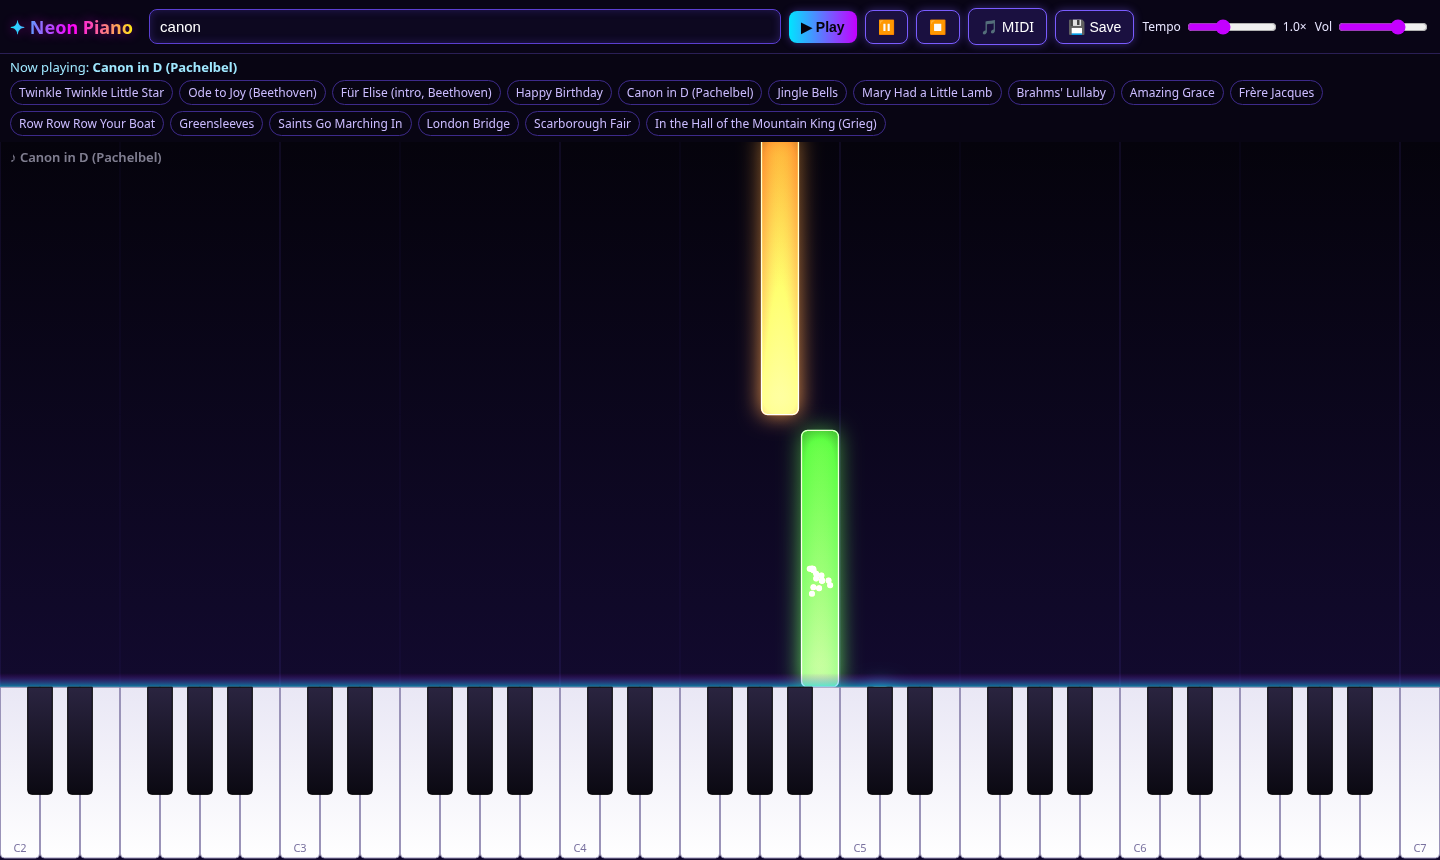
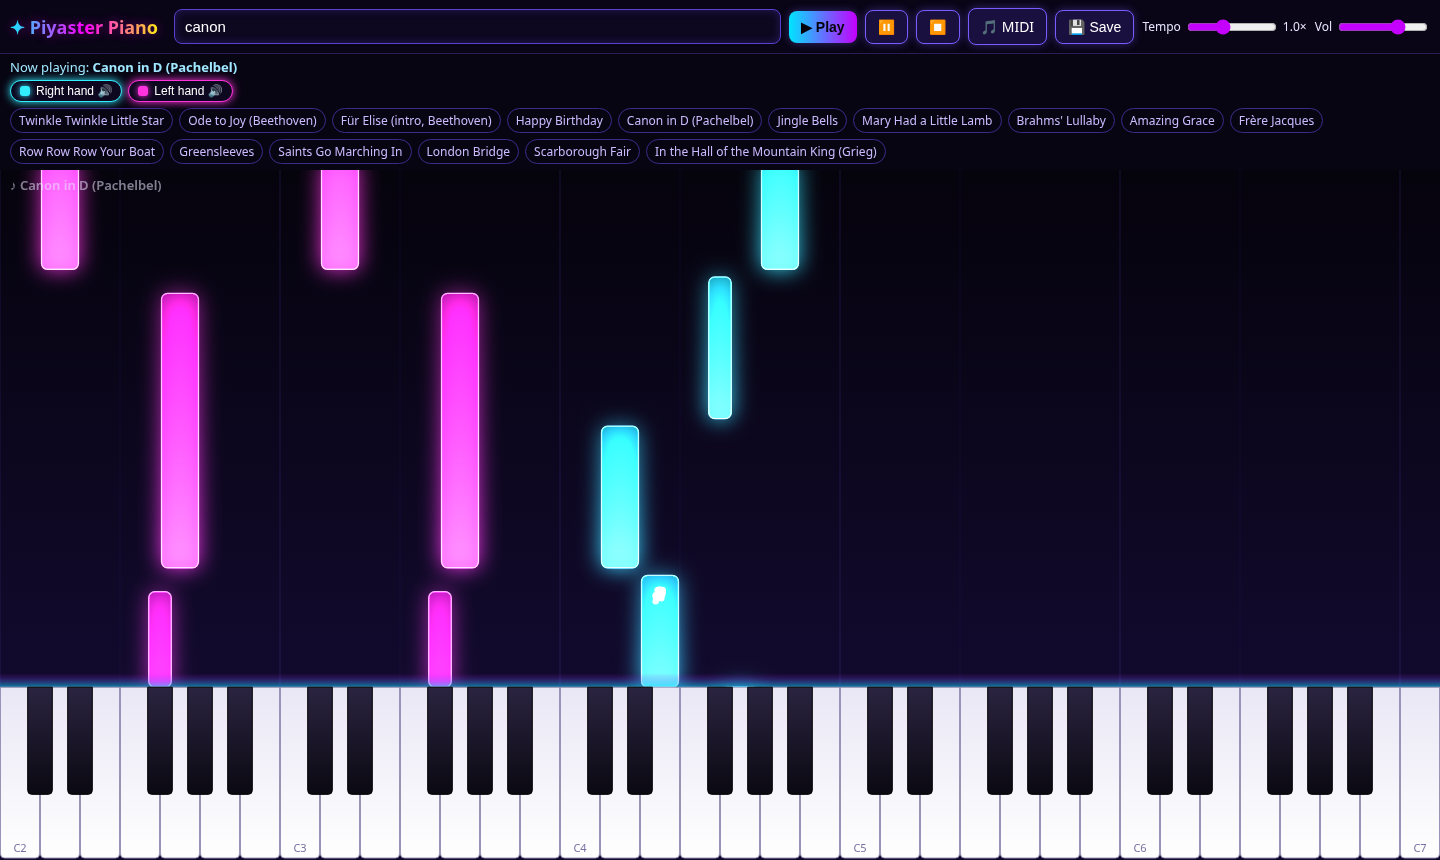
Rename to Piyaster Piano; two-hand playback (LH accompaniment, RH/LH colors, mute toggles), multi-track MIDI, RH:/LH: typed notes, manifest

Changed region(s): [[0.0, 0.0, 0.9062, 0.8163], [0.2812, 0.3326, 0.3438, 0.8163], [0.0938, 0.3326, 0.1562, 0.8163]]

diff --git a/app.js b/app.js
@@ -44,18 +44,42 @@ addEventListener('resize', layout);
 
 // ---------- state ----------
 let song = {name:'',notes:[]}, pos = 0, playing = false, tempo = 1, last = 0, nextIdx = 0;
-const lit = {}; // midi -> {until, hue}
+const lit = {}; const muted={rh:false,lh:false}; const isMuted=n=> (n.h?muted.lh:muted.rh); // midi -> {until, hue}
 let parts = [];
 const LOOK = 2.6; // seconds visible above keys
-function hit(m, dur, vel){ tone(m, dur, vel); lit[m] = {t: performance.now(), until: performance.now()+Math.max(260,dur*1000/tempo), hue: hueFor(m)};
+function hit(m, dur, vel, hue){ hue=hue??hueFor(m); tone(m, dur, vel); lit[m] = {t: performance.now(), until: performance.now()+Math.max(260,dur*1000/tempo), hue};
   const k = keys[m]; if(!k) return; const y = H-kbH;
-  for(let i=0;i<14;i++) parts.push({x:k.x+k.w/2,y,vx:(Math.random()-.5)*3,vy:-Math.random()*4-1,life:1,hue:hueFor(m)}); }
+  for(let i=0;i<14;i++) parts.push({x:k.x+k.w/2,y,vx:(Math.random()-.5)*3,vy:-Math.random()*4-1,life:1,hue}); }
 
 // ---------- parsing ----------
 function parseTokens(str, bpm){ const spb = 60/bpm; let t=0, out=[];
   for (const tok of str.trim().split(/[\s,|]+/)){ if(!tok) continue; let [n,b] = tok.split(':'); b = b?parseFloat(b):1;
     const chord = n.split('+'); if(!/^r(est)?$/i.test(n)){ for(const c of chord){ const m = noteToMidi(c); if(m==null) return null; out.push({m,t,d:b*spb*0.95}); } }
     t += b*spb; } return out.length?out:null; }
+const HUE_RH=185, HUE_LH=310, TRACK_HUES=[185,310,48,130,20,260,90,350,215,160];
+function chordNotes(c){ const r=/^([A-G])([#b]?)(m7|maj7|m|7|dim)?$/.exec(c); if(!r) return null;
+  let root={C:0,D:2,E:4,F:5,G:7,A:9,B:11}[r[1]]+(r[2]=='#'?1:r[2]=='b'?-1:0); root=(root+12)%12;
+  const q=r[3]||'', iv=q.startsWith('m')&&q!=='maj7'?[0,3,7]:q==='dim'?[0,3,6]:[0,4,7]; if(q.endsWith('7')) iv.push(q==='maj7'?11:10);
+  const r2=36+root, r3=48+root; return {r2,r3,tri:iv.map(i=>r3+i)}; }
+function genLH(spec,bpm){ const spb=60/bpm, out=[]; if(spec.lh) return (parseTokens(spec.lh,bpm)||[]).map(n=>({...n,h:1,hue:HUE_LH}));
+  let t=spec.start||0; const B=spec.bar||4;
+  for(const tok of spec.prog.trim().split(/\s+/)){ const [c,b]=tok.split(':'); const L=b?+b:B, ch=chordNotes(c); if(!ch){t+=L;continue;}
+    const ev=[]; const add=(o,d,ns)=>{ if(o<L-1e-6) ns.forEach(m=>ev.push({m,o,d:Math.min(d,L-o)})); };
+    const [a,b3,c5]=ch.tri;
+    switch(spec.style){
+      case 'alb': for(let o=0,i=0;o<L;o+=0.5,i++) add(o,0.5,[[a,c5,b3,c5][i%4]]); add(0,L,[ch.r2]); break;
+      case 'arp': for(let o=0,i=0;o<L;o+=0.5,i++) add(o,0.5,[[ch.r2,ch.r2+7,a,b3,c5,b3][i%6]]); break;
+      case 'waltz': for(let o=0;o<L;o+=3){ add(o,1,[ch.r2]); add(o+1,1,ch.tri); add(o+2,1,ch.tri);} break;
+      case 'oompah': for(let o=0,i=0;o<L;o++,i++) add(o,1,i%2?ch.tri:[ch.r2]); break;
+      case 'march': for(let o=0,i=0;o<L;o+=0.5,i++) add(o,0.5,[i%2?ch.r2+12:ch.r2]); break;
+      case 'bass': add(0,L,[ch.r2,ch.r3]); break;
+      default: add(0,L,[ch.r2,...ch.tri]); }
+    ev.forEach(e=>out.push({m:e.m,t:(t+e.o)*spb,d:e.d*spb*0.92,h:1,hue:HUE_LH,v:0.55})); t+=L; }
+  return out; }
+function builtIn(s){ const rh=parseTokens(s.m,s.bpm).map(n=>({...n,h:0,hue:HUE_RH})); const sp=LH[s.name]; return sp?rh.concat(genLH(sp,s.bpm)):rh; }
+function parseHands(q){ if(!/\b(RH|LH)\s*:/i.test(q)) return null; const out=[]; const parts=q.split(/\b(RH|LH)\s*:/i);
+  for(let i=1;i<parts.length;i+=2){ const lh=parts[i].toUpperCase()==='LH'; const n=parseTokens(parts[i+1],100); if(!n) return null;
+    n.forEach(x=>out.push({...x,h:lh?1:0,hue:lh?HUE_LH:HUE_RH})); } return out.length?out:null; }
 function parseABC(str){ let L=0.5, bpm=120, key=''; const body=[];
   for(const line of str.split(/\n/)){ const h=/^([A-Za-z]):\s*(.*)$/.exec(line.trim());
     if(h){ if(h[1]=='L'){const [a,b]=h[2].split('/');L=(+a/+b)*4;} if(h[1]=='Q'){bpm=parseInt(h[2].split('=').pop())||bpm;} if(h[1]=='K') key=h[2]; }
@@ -79,13 +103,14 @@ function findSong(q){ q = norm(q); if(!q) return null; let best=null, bs=0;
     if(!sc) sc = 1 - lev(q,cand)/Math.max(q.length,cand.length);
     if(sc>bs){bs=sc;best=s;} } }
   return bs>=0.55?best:null; }
-function load(name, notes){ notes.sort((a,b)=>a.t-b.t); song={name,notes}; pos=-1.2; nextIdx=0; layout(); }
+function load(name, notes, mode='hands'){ notes.sort((a,b)=>a.t-b.t); song={name,notes,mode}; legend(); pos=-1.2; nextIdx=0; layout(); }
 function msg(t){ $('msg').innerHTML = t; }
 function fromInput(){ const q=$('song').value.trim(); if(!q){ msg('Type a song name or some notes first ✨'); return false; }
-  let n = parseTokens(q,100); if(n){ load('Your notes',n); msg('Playing your notes 🎹 Press 💾 Save to keep them in My Songs.'); return true; }
+  let n = parseHands(q); if(n){ load('Your notes (RH+LH)',n,'hands'); msg('Playing your two-hand notes 🎹 Press 💾 Save to keep them.'); return true; }
+  n = parseTokens(q,100); if(n){ n.forEach(x=>{x.h=0;x.hue=HUE_RH;}); load('Your notes',n); msg('Playing your notes 🎹 Press 💾 Save to keep them in My Songs.'); return true; }
   if(/[A-Ga-g]/.test(q) && (/^X:|\nK:|^[\^_=A-Ga-gzZ,'\d\/\s|]+$/.test(q)) && !/\s[a-z]{3,}/i.test(' '+q.replace(/^[A-Za-z]:.*$/gm,''))){
     n = parseABC(q); if(n){ load('ABC tune',n); msg('Playing ABC notation 🎼'); return true; } }
-  const s = findSong(q); if(s){ load(s.name, s.mine? s.notes.map(n=>({...n})) : parseTokens(s.m, s.bpm)); msg(`Now playing: <b>${s.name.replace(/</g,'&lt;')}</b>${s.mine?' (My Songs)':''}`); return true; }
+  const s = findSong(q); if(s){ load(s.name, s.mine? s.notes.map(n=>({...n})) : builtIn(s), s.mine?(s.mode||'hands'):'hands'); msg(`Now playing: <b>${s.name.replace(/</g,'&lt;')}</b>${s.mine?' (My Songs)':''}`); return true; }
   msg(`Sorry, I don't have “${q.replace(/</g,'&lt;')}” yet 🎵 Try: ${SONGS.slice(0,6).map(s=>s.name).join(', ')}… or type notes like <code>C4 D4 E4:2</code>, or drop in your own MIDI file and 💾 Save it to My Songs.`); return false; }
 
 // ---------- MIDI file ----------
@@ -94,19 +119,24 @@ function parseMidi(buf){ const d=new DataView(buf); let p=0; const str=n=>{let s
   const vlq=()=>{let v=0,b;do{b=d.getUint8(p++);v=(v<<7)|(b&127);}while(b&128);return v;};
   if(str(4)!=='MThd') throw 'Not a MIDI file'; const hl=u32(); u16(); const nt=u16(), div=u16(); p=8+hl;
   const ev=[], tempos=[{tick:0,us:500000}];
-  for(let k=0;k<nt;k++){ if(str(4)!=='MTrk') break; const len=u32(), end=p+len; let tick=0, rs=0; const open={};
+  for(let k=0;k<nt;k++){ if(str(4)!=='MTrk') break; const len=u32(), end=p+len; let tick=0, rs=0; const open={}; const trk=k;
     while(p<end){ tick+=vlq(); let st=d.getUint8(p); if(st<0x80) st=rs; else p++; rs=st;
       if(st===0xFF){ const ty=d.getUint8(p++), l=vlq(); if(ty===0x51) tempos.push({tick,us:(d.getUint8(p)<<16)|(d.getUint8(p+1)<<8)|d.getUint8(p+2)}); p+=l; }
       else if(st===0xF0||st===0xF7){ p+=vlq(); }
       else { const t=st&0xF0, ch=st&15, a=d.getUint8(p++), b=(t===0xC0||t===0xD0)?0:d.getUint8(p++);
         if(ch===9) continue;
         if(t===0x90&&b>0){ (open[a]=open[a]||[]).push({tick,v:b}); }
-        else if(t===0x80||(t===0x90&&b===0)){ const o=(open[a]||[]).shift(); if(o) ev.push({m:a,s:o.tick,e:tick,v:o.v/127}); } } }
+        else if(t===0x80||(t===0x90&&b===0)){ const o=(open[a]||[]).shift(); if(o) ev.push({m:a,s:o.tick,e:tick,v:o.v/127,trk,ch}); } } }
     p=end; }
   tempos.sort((a,b)=>a.tick-b.tick); const sec=tk=>{let s=0,prev=0,us=500000; for(const t of tempos){ if(t.tick>=tk) break; s+=(t.tick-prev)*us/div/1e6; prev=t.tick; us=t.us; } return s+(tk-prev)*us/div/1e6; };
-  return ev.map(e=>({m:e.m,t:sec(e.s),d:Math.max(0.08,sec(e.e)-sec(e.s)),v:e.v})); }
+  const multi=new Set(ev.map(e=>e.trk)).size>1, key=e=>multi?e.trk:e.ch; const ids=[...new Set(ev.map(key))].sort((a,b)=>a-b);
+  const notes=ev.map(e=>({m:e.m,t:sec(e.s),d:Math.max(0.08,sec(e.e)-sec(e.s)),v:e.v,h:ids.indexOf(key(e))}));
+  // if exactly 2 parts, call higher one RH; otherwise color per track
+  if(ids.length===2){ const avg=i=>{const a=notes.filter(n=>n.h===i);return a.reduce((s,n)=>s+n.m,0)/a.length;}; const hi=avg(0)>=avg(1)?0:1; notes.forEach(n=>{n.h=n.h===hi?0:1;n.hue=n.h?HUE_LH:HUE_RH;}); notes.mode='hands'; }
+  else notes.forEach(n=>n.hue=ids.length===1?HUE_RH:TRACK_HUES[n.h%TRACK_HUES.length]);
+  notes.parts=ids.length; return notes; }
 $('file').onchange = async e => { const f=e.target.files[0]; if(!f) return; try{ const n=parseMidi(await f.arrayBuffer()); if(!n.length) throw 'No notes found';
-  load(f.name,n); msg(`Loaded MIDI: <b>${f.name}</b> (${n.length} notes)`); start(); saveCurrent(f.name.replace(/\.midi?$/i,'')); } catch(err){ msg('Could not read that MIDI file: '+err); } e.target.value=''; };
+  load(f.name,n,n.mode||'tracks'); msg(`Loaded MIDI: <b>${f.name}</b> (${n.length} notes, ${n.parts} part${n.parts>1?'s':''})`); start(); saveCurrent(f.name.replace(/\.midi?$/i,'')); } catch(err){ msg('Could not read that MIDI file: '+err); } e.target.value=''; };
 
 // ---------- controls ----------
 function start(){ audio(); playing=true; last=performance.now(); $('pause').textContent='⏸'; }
@@ -115,6 +145,12 @@ $('song').onkeydown = e => { if(e.key==='Enter'){ e.preventDefault(); $('play').
 $('pause').onclick = () => { if(!song.notes.length) return; if(playing){playing=false;$('pause').textContent='▶';} else start(); };
 $('stop').onclick = () => { playing=false; pos=-1.2; nextIdx=0; $('pause').textContent='⏸'; };
 $('tempo').oninput = e => { tempo=+e.target.value; $('tv').textContent=tempo.toFixed(2).replace(/0$/,'')+'×'; };
+function legend(){ const L=$('legend'); if(!L) return; L.innerHTML=''; if(!song.notes.length) return;
+  if(song.mode==='hands'){ [['rh','Right hand',HUE_RH],['lh','Left hand',HUE_LH]].forEach(([k,lab,h])=>{ if(!song.notes.some(n=>(n.h?'lh':'rh')===k)) return;
+      const b=document.createElement('button'); b.className='hand'+(muted[k]?' off':''); b.style.setProperty('--c',`hsl(${h},100%,60%)`);
+      b.innerHTML=`<i></i>${lab} ${muted[k]?'🔇':'🔊'}`; b.title='Mute/unmute '+lab; b.onclick=()=>{muted[k]=!muted[k];legend();}; L.appendChild(b); }); }
+  else { const ids=[...new Set(song.notes.map(n=>n.h))]; ids.slice(0,8).forEach(i=>{ const s=document.createElement('span'); s.className='hand'; s.style.setProperty('--c',`hsl(${TRACK_HUES[i%TRACK_HUES.length]},100%,60%)`); s.innerHTML=`<i></i>Track ${i+1}`; L.appendChild(s); });
+    [['rh','Track 1'],['lh','Other tracks']].forEach(([k,lab])=>{ const b=document.createElement('button'); b.className='hand'+(muted[k]?' off':''); b.textContent=(muted[k]?'🔇 ':'🔊 ')+lab; b.onclick=()=>{muted[k]=!muted[k];legend();}; L.appendChild(b); }); } }
 const lib=$('lib');
 function renderLib(){ lib.innerHTML=''; const mine=getMine();
   if(mine.length){ const h=document.createElement('b'); h.textContent='My Songs'; lib.appendChild(h);
@@ -125,8 +161,8 @@ function renderLib(){ lib.innerHTML=''; const mine=getMine();
   SONGS.forEach(s=>{ const b=document.createElement('span'); b.textContent=s.name; b.onclick=()=>{ $('song').value=s.name; $('play').click(); }; lib.appendChild(b); }); }
 function saveCurrent(def){ if(!song.notes.length){ msg('Load a MIDI file or type notes first, then press 💾 Save.'); return; }
   const name=(prompt('Name this song for My Songs:', def||song.name)||'').trim(); if(!name) return;
-  const notes=song.notes.map(n=>({m:n.m,t:+n.t.toFixed(3),d:+n.d.toFixed(3),...(n.v!=null?{v:+n.v.toFixed(2)}:{})}));
-  try{ setMine([...getMine().filter(o=>o.name.toLowerCase()!==name.toLowerCase()),{name,notes}]); song.name=name; renderLib(); msg(`Saved <b>${name.replace(/</g,'&lt;')}</b> to My Songs 💾`); }
+  const notes=song.notes.map(n=>({m:n.m,t:+n.t.toFixed(3),d:+n.d.toFixed(3),...(n.v!=null?{v:+n.v.toFixed(2)}:{}),h:n.h||0,hue:n.hue??HUE_RH}));
+  try{ setMine([...getMine().filter(o=>o.name.toLowerCase()!==name.toLowerCase()),{name,notes,mode:song.mode}]); song.name=name; renderLib(); msg(`Saved <b>${name.replace(/</g,'&lt;')}</b> to My Songs 💾`); }
   catch(e){ msg('Could not save (browser storage full?)'); } }
 $('save').onclick=()=>saveCurrent();
 renderLib();
@@ -134,7 +170,7 @@ renderLib();
 addEventListener('dragover',e=>{e.preventDefault();document.body.classList.add('drag');});
 addEventListener('dragleave',e=>{ if(!e.relatedTarget) document.body.classList.remove('drag'); });
 addEventListener('drop',async e=>{ e.preventDefault(); document.body.classList.remove('drag'); const f=e.dataTransfer.files[0]; if(!f) return;
-  try{ const n=parseMidi(await f.arrayBuffer()); if(!n.length) throw 'No notes found'; load(f.name.replace(/\.midi?$/i,''),n); start(); saveCurrent(); }catch(err){ msg('Could not read that MIDI file: '+err); } });
+  try{ const n=parseMidi(await f.arrayBuffer()); if(!n.length) throw 'No notes found'; load(f.name.replace(/\.midi?$/i,''),n,n.mode||'tracks'); start(); saveCurrent(); }catch(err){ msg('Could not read that MIDI file: '+err); } });
 
 // mouse/touch on keys
 function keyAt(x,y){ if(y<H-kbH) return null; const yy=y-(H-kbH);
@@ -156,7 +192,7 @@ addEventListener('keyup',e=>delete down[e.key.toLowerCase()]);
 function rr(x,y,w,h,r){ ctx.beginPath(); ctx.roundRect?ctx.roundRect(x,y,w,h,r):ctx.rect(x,y,w,h); }
 function frame(now){ const dt=Math.min(0.1,(now-last)/1000); last=now;
   if(playing){ pos+=dt*tempo; const N=song.notes;
-    while(nextIdx<N.length&&N[nextIdx].t<=pos){ const n=N[nextIdx++]; hit(n.m,n.d,n.v??0.8); }
+    while(nextIdx<N.length&&N[nextIdx].t<=pos){ const n=N[nextIdx++]; if(!isMuted(n)) hit(n.m,n.d,n.v??0.8,n.hue); }
     if(nextIdx>=N.length&&N.length&&pos>N[N.length-1].t+N[N.length-1].d+1){ playing=false; msg(`Finished <b>${song.name}</b> 🎉 Press Play to hear it again.`); pos=-1.2; nextIdx=0; } }
   const top=H-kbH;
   // background
@@ -166,12 +202,12 @@ function frame(now){ const dt=Math.min(0.1,(now-last)/1000); last=now;
   // falling notes
   const pps=top/LOOK; ctx.save(); ctx.globalCompositeOperation='lighter';
   for(const n of song.notes){ if(n.t>pos+LOOK) break; if(n.t+n.d<pos-0.5) continue; const k=keys[n.m]; if(!k) continue;
-    const yb=top-(n.t-pos)*pps, yt=yb-n.d*pps, h=hueFor(n.m), x=k.x+1.5, w=k.w-3;
+    const yb=top-(n.t-pos)*pps, yt=yb-n.d*pps, h=n.hue??hueFor(n.m), x=k.x+1.5, w=k.w-3; ctx.globalAlpha=isMuted(n)?0.15:1;
     ctx.shadowColor=`hsl(${h},100%,60%)`; ctx.shadowBlur=22;
     const g=ctx.createLinearGradient(0,yt,0,yb); g.addColorStop(0,`hsla(${h},100%,55%,.55)`); g.addColorStop(1,`hsla(${h},100%,70%,.95)`);
     ctx.fillStyle=g; rr(x,Math.max(-10,yt),w,Math.min(yb,top)-Math.max(-10,yt),Math.min(6,w/2)); ctx.fill();
     ctx.shadowBlur=0; ctx.strokeStyle=`hsla(${h},100%,85%,.9)`; ctx.lineWidth=1.2; ctx.stroke(); }
-  ctx.restore();
+  ctx.globalAlpha=1; ctx.restore();
   // hit line glow
   const hl=ctx.createLinearGradient(0,top-14,0,top); hl.addColorStop(0,'rgba(196,0,255,0)'); hl.addColorStop(1,'rgba(0,229,255,.55)'); ctx.fillStyle=hl; ctx.fillRect(0,top-14,W,14);
   // keyboard

diff --git a/index.html b/index.html
@@ -1,7 +1,8 @@
 <!DOCTYPE html>
 <html lang="en"><head><meta charset="utf-8">
+<link rel="manifest" href="manifest.json"><meta name="theme-color" content="#05030c">
 <meta name="viewport" content="width=device-width,initial-scale=1,viewport-fit=cover">
-<title>Neon Piano</title>
+<title>Piyaster Piano</title>
 <style>
 *{box-sizing:border-box}html,body{margin:0;height:100%;background:#05030c;color:#e8e6ff;font-family:system-ui,-apple-system,Segoe UI,sans-serif;overflow:hidden}
 #app{display:flex;flex-direction:column;height:100%}
@@ -22,12 +23,14 @@ canvas{position:absolute;inset:0;width:100%;height:100%;display:block;touch-acti
 body.drag #stage{outline:3px dashed #ff4fd8;outline-offset:-8px}
 #lib span:hover{border-color:#0ff;color:#0ff}
 #file{display:none}
+#legend{display:flex;flex-wrap:wrap;gap:6px;padding:0 10px 6px;background:rgba(10,6,25,.6);z-index:2}#legend:empty{display:none}
+.hand{font-size:12px;padding:3px 9px;border-radius:999px;border:1px solid var(--c,#7a5cff);background:#0d0820;color:#fff;box-shadow:0 0 8px var(--c,#7a5cff);display:inline-flex;align-items:center;gap:6px}.hand i{width:10px;height:10px;border-radius:3px;background:var(--c,#7a5cff);box-shadow:0 0 6px var(--c)}.hand.off{opacity:.45;box-shadow:none}
 @media (max-width:640px){h1{font-size:15px}header{gap:6px;padding:6px}button,.btn{padding:7px 9px;font-size:13px}input[type=range]{width:70px}#lib{max-height:52px;overflow:auto}}
 </style></head><body>
 <div id="app">
 <header>
-<h1>✦ Neon Piano</h1>
-<input id="song" type="text" placeholder="Type a song (e.g. Fur Elise) or notes: C4 D4 E4 / ABC" autocomplete="off">
+<h1>✦ Piyaster Piano</h1>
+<input id="song" type="text" placeholder="Song name, or notes: RH: E5 D5 C5 LH: C3+E3+G3:3" autocomplete="off">
 <button id="play" class="primary">▶ Play</button>
 <button id="pause">⏸</button>
 <button id="stop">⏹</button>
@@ -37,6 +40,7 @@ body.drag #stage{outline:3px dashed #ff4fd8;outline-offset:-8px}
 <label>Vol <input id="vol" type="range" min="0" max="1" step="0.01" value="0.7"></label>
 </header>
 <div id="msg">Type a song name and press Play, click a song below, or play the keys (keyboard: A W S E D F T G Y H U J K…).</div>
+<div id="legend"></div>
 <div id="lib"></div>
 <div id="stage"><canvas id="cv"></canvas></div>
 </div>

diff --git a/songs.js b/songs.js
@@ -33,3 +33,24 @@ const SONGS = [
  {name:"In the Hall of the Mountain King (Grieg)",alias:["mountain king","hall of the mountain king","grieg"],bpm:150,
   m:"A3:0.5 B3:0.5 C4:0.5 D4:0.5 E4:0.5 C4:0.5 E4 D#4:0.5 B3:0.5 D#4 D4:0.5 A#3:0.5 D4 A3:0.5 B3:0.5 C4:0.5 D4:0.5 E4:0.5 C4:0.5 E4:0.5 A4:0.5 G4:0.5 E4:0.5 C4:0.5 E4:0.5 G4:2"}
 ];
+
+// Left-hand accompaniment. Either an explicit token string (lh) or a chord progression
+// (prog, "Chord[:beats]" tokens, default length = bar) rendered with a style.
+const LH = {
+ "Twinkle Twinkle Little Star": {style:"alb",bar:2,prog:"C C F C F C G C C F C G C F C G C C F C F C G C"},
+ "Ode to Joy (Beethoven)": {style:"alb",bar:2,prog:"C C G G C C G G C C G G C C G C G C G C G C G G C C G G C C G C"},
+ "Für Elise (intro, Beethoven)": {lh:"R:4 A2:0.5 E3:0.5 A3:0.5 R:1.5 E2:0.5 E3:0.5 G#3:0.5 R:1.5 A2:0.5 E3:0.5 A3:0.5 R:0.5 R:4 A2:0.5 E3:0.5 A3:0.5 R:1.5 E2:0.5 E3:0.5 G#3:0.5 R:1.5 A2:0.5 E3:0.5 A3:1"},
+ "Happy Birthday": {style:"waltz",bar:3,start:1,prog:"C G G C C F G C"},
+ "Canon in D (Pachelbel)": {style:"bass",bar:2,prog:"D A Bm F#m G D G A D A Bm F#m G D G A D A Bm F#m G D G A D A Bm D:1"},
+ "Jingle Bells": {style:"oompah",bar:4,prog:"C C C C F C D7 G C C C C F C G C"},
+ "Mary Had a Little Lamb": {style:"alb",bar:4,prog:"C C G C C C G C"},
+ "Brahms' Lullaby": {style:"waltz",bar:3,start:1,prog:"C C C F G G G C"},
+ "Amazing Grace": {style:"waltz",bar:3,start:1,prog:"G G C G G G D"},
+ "Frère Jacques": {style:"alb",bar:4,prog:"C C C C C C G C"},
+ "Row Row Row Your Boat": {style:"arp",bar:3,prog:"C C C C C C G C"},
+ "Greensleeves": {style:"waltz",bar:3,start:1,prog:"Am C G Em Am E Am E Am C G Em Am E Am"},
+ "Saints Go Marching In": {style:"oompah",bar:4,start:3,prog:"C C C C C C G G C C F C G C:3"},
+ "London Bridge": {style:"alb",bar:4,prog:"C C G C C C G C"},
+ "Scarborough Fair": {style:"waltz",bar:3,prog:"Dm Dm C Dm F C G Dm"},
+ "In the Hall of the Mountain King (Grieg)": {style:"march",bar:4,prog:"Am:4 B:2 Bb:2 Am:4 C:4"}
+};

diff --git a/README.md b/README.md
@@ -1,4 +1,4 @@
-# ✦ Neon Piano
+# ✦ Piyaster Piano
 
 A single-page, Synthesia-style neon piano that runs in the browser. It has no build step and no dependencies, and it makes its sound with the Web Audio API.
 
@@ -13,6 +13,12 @@ A single-page, Synthesia-style neon piano that runs in the browser. It has no bu
 - Play, pause and stop buttons, a tempo slider (0.4–2×) and a volume slider.
 - If the app doesn't know a song name, it shows a friendly message suggesting songs it does have.
 - Deep link: `index.html?song=ode+to+joy&seek=2`
+
+## Two hands
+- Every built-in song has a left-hand accompaniment, such as the Alberti bass under *Für Elise*, the walking bass in *Canon in D* and chords under *Ode to Joy*.
+- The right hand is shown in **cyan** and the left hand in **magenta**. The legend has RH and LH mute toggles.
+- Type both hands in the song box: `RH: E4 D4 C4 D4 E4 E4 E4:2  LH: C3+E3+G3:2 G2+B2+D3:2`
+- MIDI import plays every track and channel. Two-part files are split into RH and LH by pitch, and files with more parts are colored per track.
 
 ## My Songs (your own music)
 The app ships only public-domain or traditional melodies. For anything else, such as songs by the Beatles or music from Final Fantasy or Studio Ghibli, **you supply your own files**:
